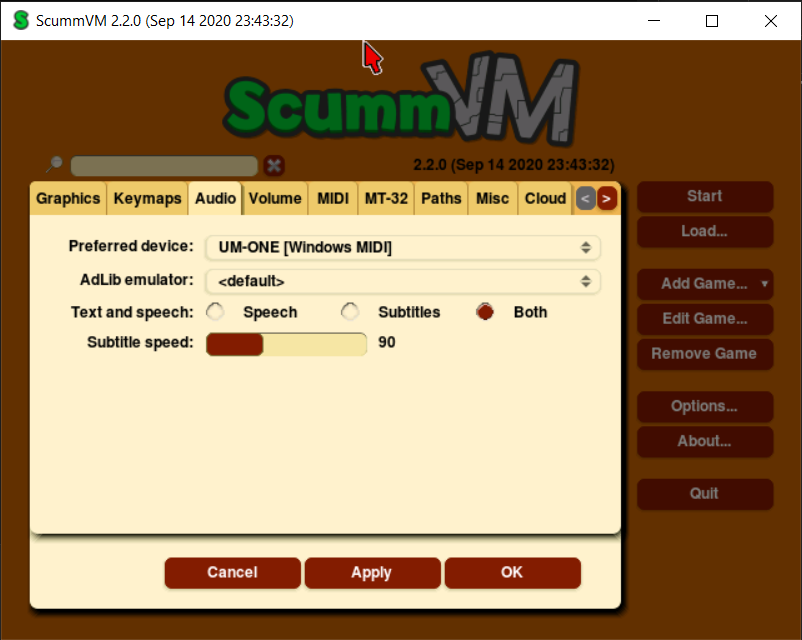
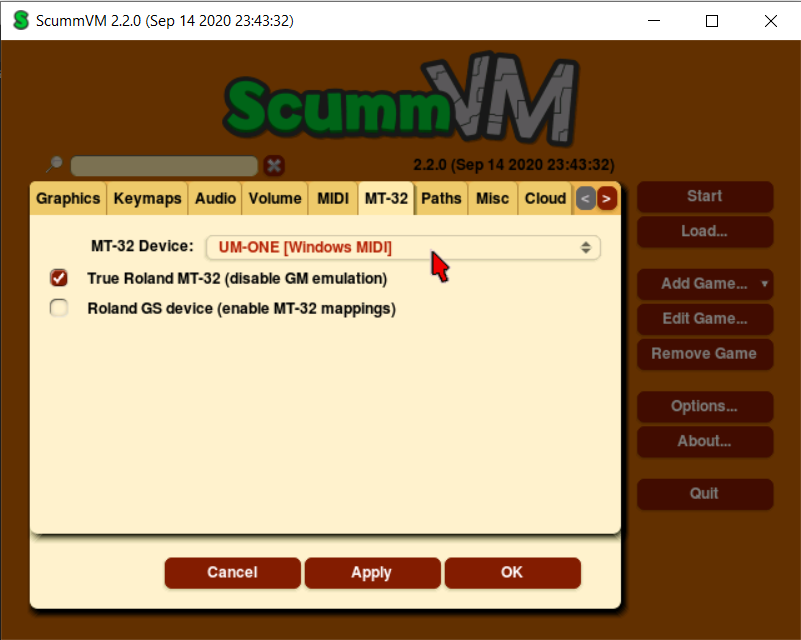
ScummVM details added

diff --git a/documentation/getting_started.md b/documentation/getting_started.md
@@ -1,0 +1,20 @@
+# 1> Getting started
+The [documentation](https://github.com/tebl/BulkyMIDI-32/tree/main/BulkyMIDI-32%20Module#bulkymidi-32-module) that comes with the main module mostly only deals with soldering the device together, additionally there's a separate document on [setting it up](https://github.com/tebl/BulkyMIDI-32/blob/main/documentation/setting_up.md) and ensuring that the device functions as expected. This document therefore assumes that you already have a working device, either because you took great care in constructing it yourself or you simply bought it from a builder that you decided to trust with a meager portion of your disposable income.
+
+Before starting on this adventure, even with a ready-built unit I suggest at least reading through the [basic information](https://github.com/tebl/BulkyMIDI-32/blob/main/documentation/setting_up.md#11-basic-information) section of previously mentioned document - if only so that any weird nomenclature found later on it the document becomes a bit less fuzzy. This is by no meant to be an exhaustive source of information for all things MT-32 or MT32-PI, the purpose is simply to provide some form of a starting point for those of us who've always wanted a Roland MT-32 without really knowing how it is supposed to be used.
+
+- [1> Getting started](#1-getting-started)
+- [2> ScummVM](#2-scummvm)
+
+# 2> ScummVM
+[ScummVM](https://www.scummvm.org/) is by far the easiest way to get started, and while it provides its own form of MT-32 emulation we can reconfigure it to output the MIDI instructions out to external devices instead by the use of a suitable *USB MIDI Interface* (the one I recommend is *Roland UM-ONE Mk2*). I'm not entirely convinced that there's all that much to be gained from swapping out one form of emulation over another, but the exact same instructions can be used to hook up a real MT-32 to ScummVM and for that reason it is an excellent way of testing that the MT32-PI functions as expected.
+
+[Download](https://www.scummvm.org/downloads/#release) and install the software for your favourite platform, but note that unless that's MS Windows you might have to navigate menus that might be different from those shown (I can't afford the laptop I already have, so those are the limitations to what I can show you). Several games have been made freeware, for that reason I'm recommending that you download a copy of *Beneath a steel sky* from the [ScummVM Games](https://www.scummvm.org/games/#games-sky) page - preferably the CD-version. Extract the Zip-file somewhere you'll be able to find later, then add it to ScummVM using the *"Add Game..."* button. That should add the game to your list of games, but while you could start it up at this point just to see what the original version of the game would sound like.
+
+![](https://github.com/tebl/BulkyMIDI-32/raw/main/gallery/scummvm_mt32_001.png)
+
+In order to make ScummVM work with an external MIDI module, we'll need to change the options to match by clicking the button simply marked *"Options..."*. Our first stop is the *MT-32*-tab, here you'll need to select any of *USB MIDI Interface* that were plugged in **when** you started the program. Enable *True Roland MT-32* to indicate that the device connected on the other end is either a real Roland MT-32 or the MT32-PI.
+
+![](https://github.com/tebl/BulkyMIDI-32/raw/main/gallery/scummvm_mt32_002.png)
+
+Second is the *Audio*-tab, here we need to select the same external interface as your *Preferred device*. Some games, in particular some of the Sierra games will attempt to use the MT-32 for both music as well as sound effects, but this varies from title to title with most of the later games preferring a regular sound card for effects. Note that most of the games will have an animated intro sequence only using standard sound card, but the music will start to play either in the menu or once you're into the game. The MT32-PI allows you to switch between various *romsets* in *MT32*-mode by using the *ROM*-button, for the games that utilize the MT-32 for sound effects you'll usually get more authentic audio using the earliest version. 

diff --git a/documentation/setting_it_up.md b/documentation/setting_it_up.md
@@ -79,4 +79,4 @@ With the contents of the SD-card already prepared, insert it into the slot on th
 
 If nothing appears to work, your first instinct might be plugging in an HDMI cable to see whether it is generating any video. If you get a rainbow screen then the software isn't starting up at all, meaning you need to take a second to verify that your SD-card is correctly inserted and formatted correctly. Additionally, with an underpowered power supply you might also end up with a low voltage warning shown in the form of a yellow lightning bolt on the screen. Should the software start to boot as expected you will get a blank screen, the reason for this is that the MT32-PI software doesn't generate video and should for that reason be considered normal behavior. A more common fault is simply that the display has not been [configured]((#134-display-type)) correctly.
 
-When everything appears to be functioning, now might be the time to [get started](https://github.com/tebl/BulkyMIDI-32/blob/main/documentation/get_started.md) on actually using it. The easiest method by far is using a USB MIDI interface with ScummVM.
+When everything appears to be functioning, the next exciting step is [getting started](https://github.com/tebl/BulkyMIDI-32/blob/main/documentation/get_started.md) on using it to play some music. The easiest method by far is using a USB MIDI interface with ScummVM.
